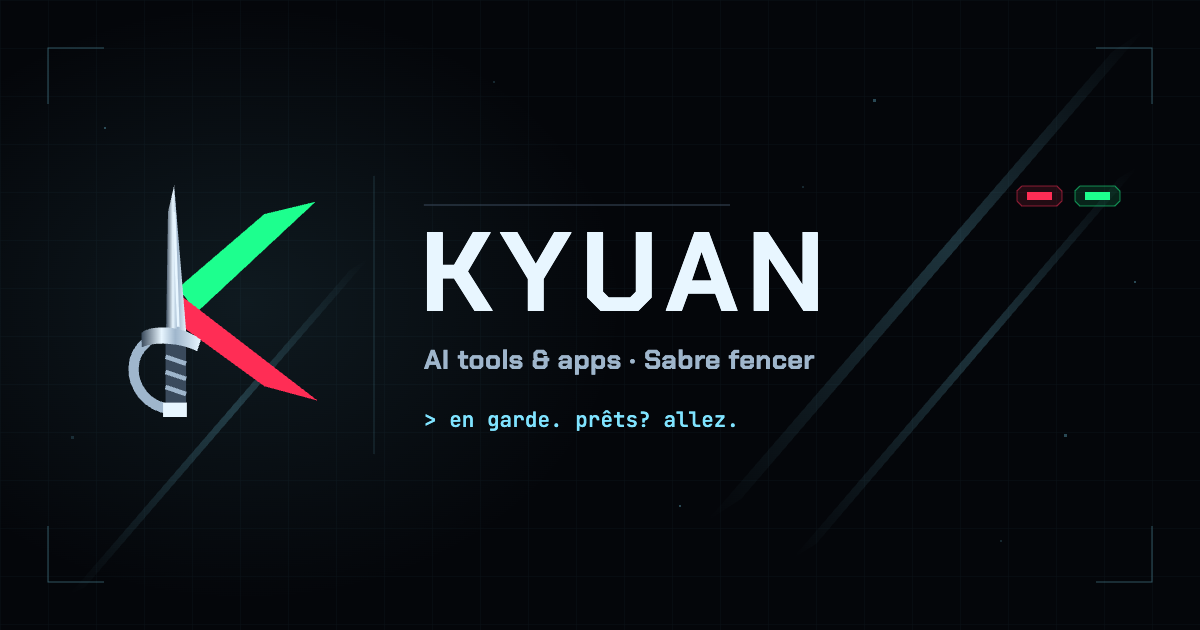
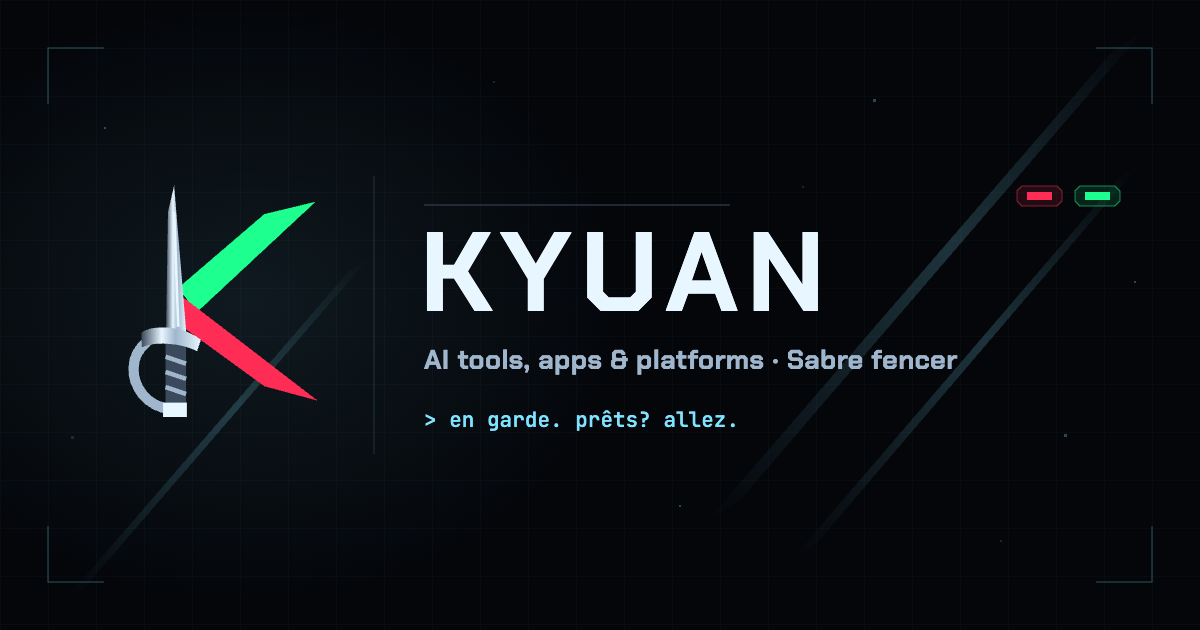
Add FormuAI, remove Draftwise; role: AI tools, apps & platforms

Changed region(s): [[0.4317, 0.5429, 0.8017, 0.6032]]

diff --git a/index.html b/index.html
@@ -3,14 +3,14 @@
 <head>
   <meta charset="utf-8">
   <meta name="viewport" content="width=device-width, initial-scale=1, viewport-fit=cover">
-  <title>KYUAN — AI tools &amp; apps · Sabre</title>
-  <meta name="description" content="KYUAN: builder of AI tools and apps, sabre fencer. StudyArea, ClearSteps, Draftwise, KevCal, AI Coding Field Guide and The Dive.">
+  <title>KYUAN — AI tools, apps &amp; platforms · Sabre</title>
+  <meta name="description" content="KYUAN: builder of AI tools, apps and platforms, sabre fencer. The Dive, StudyArea, AI Coding Field Guide, FormuAI, ClearSteps and KevCal.">
   <meta name="theme-color" content="#04060a">
   <link rel="canonical" href="https://fierylightning.github.io/">
   <meta name="color-scheme" content="dark">
   <meta property="og:type" content="website">
-  <meta property="og:title" content="KYUAN — AI tools & apps · Sabre">
-  <meta property="og:description" content="Builder of AI tools and apps. Sabre fencer. Six builds, four live.">
+  <meta property="og:title" content="KYUAN — AI tools, apps & platforms · Sabre">
+  <meta property="og:description" content="Builder of AI tools, apps and platforms. Sabre fencer. Six builds, four live.">
   <meta property="og:url" content="https://fierylightning.github.io/">
   <meta property="og:image" content="https://fierylightning.github.io/assets/og/og.png">
   <meta property="og:image:width" content="1200">
@@ -91,7 +91,7 @@
             <span class="sn-b" aria-hidden="true">KYUAN</span>
             <svg class="sn-line" viewBox="0 0 100 100" preserveAspectRatio="none" aria-hidden="true"><line x1="-6" y1="65.3" x2="106" y2="40.7" vector-effect="non-scaling-stroke"/></svg>
           </h1>
-          <p class="hero-role" id="hero-role">Builder of AI tools &amp; apps. Sabre fencer.</p>
+          <p class="hero-role" id="hero-role">Builder of AI tools, apps &amp; platforms. Sabre fencer.</p>
           <p class="typer" aria-live="off"><span class="prompt">&gt;</span> <span id="typer"></span><span class="caret" aria-hidden="true"></span></p>
           <div class="hero-cta">
             <a class="btn btn-primary" href="#arsenal"><span>Enter the piste</span><svg class="ico" aria-hidden="true"><use href="assets/icons.svg#i-arrow-down"></use></svg></a>
@@ -137,7 +137,7 @@
       <header class="sec-head" data-reveal>
         <span class="sec-idx">02 <i></i> ARSENAL</span>
         <h2 id="arsenal-title">Six touches landed.</h2>
-        <p>Tools and apps I've built. <b class="g">Green lamp</b>: live, touch to open. <b class="r">Red lamp</b>: private or local build, described here but not publicly hosted.</p>
+        <p>Tools, apps and platforms I've built and work on. <b class="g">Green lamp</b>: live, touch to open. <b class="r">Red lamp</b>: private or local build, described here but not publicly hosted.</p>
       </header>
 
       <div class="filters" role="group" aria-label="Filter builds">
@@ -153,8 +153,8 @@
           <li><a href="https://fierylightning.github.io/the-dive/">The Dive</a> — learning AI, by depth</li>
           <li><a href="https://studyarea.vercel.app">StudyArea</a> — offline-first AI study coach</li>
           <li><a href="https://ai-coding-field-guide.vercel.app">AI Coding Field Guide</a> — your first app with an AI pair</li>
+          <li><a href="https://formuai-v1.vercel.app">FormuAI</a> — AI platform for drug formulation (by invitation; took over development)</li>
           <li>ClearSteps — video to step-by-step guide (private build)</li>
-          <li><a href="https://draftwise-mocha.vercel.app">Draftwise</a> — AI interview preparation</li>
           <li>KevCal — photo to calendar (runs locally) · <a href="https://github.com/FieryLightning/KevCal">source</a></li>
         </ul>
       </noscript>

diff --git a/js/data.js b/js/data.js
@@ -15,7 +15,7 @@ export const profile = {
   email: '', // optional: add an address to show a "mail" button in the Salute section
   education: 'CS graduate, University of Wisconsin–Madison',
   educationShort: 'CS graduate, UW–Madison',
-  role: 'Builder of AI tools & apps',
+  role: 'Builder of AI tools, apps & platforms',
   weapon: 'Sabre',
   taglines: [
     'fast hands. clean cuts. shipped code.',
@@ -25,7 +25,7 @@ export const profile = {
   ],
   bio: [
     'I fence sabre. It is the fastest weapon in fencing: the whole target above the waist is open, the edge counts as much as the point, and the fencer who commits first holds right of way. A touch is decided in a fraction of a second.',
-    'I build software the same way. Pick the line, commit, cut clean, ship. Lately that means AI tools that respect the person using them: study coaches that work offline, interview practice that stays in your browser, video-to-guide pipelines that can run entirely on a Mac, and a calendar reader that refuses to guess a date.',
+    'I build software the same way. Pick the line, commit, cut clean, ship. Lately that means AI tools that respect the person using them: study coaches that work offline, video-to-guide pipelines that can run entirely on a Mac, a calendar reader that refuses to guess a date, and FormuAI, a drug-formulation platform I took over and now develop.',
   ],
 };
 
@@ -33,7 +33,7 @@ export const loadout = [
   { slot: 'Languages', icon: 'i-code', items: ['TypeScript', 'JavaScript', 'Python', 'Swift', 'SQL'] },
   { slot: 'Front end', icon: 'i-target', items: ['React 19', 'Next.js', 'Vite', 'PWA / Service Workers', 'IndexedDB (Dexie)'] },
   { slot: 'AI', icon: 'i-cpu', items: ['Claude API', 'OpenAI', 'Gemini', 'Whisper.cpp', 'Ollama · Qwen', 'Reinforcement learning'] },
-  { slot: 'Platform', icon: 'i-bolt', items: ['Node.js', 'Vercel', 'Cloudflare', 'GitHub Pages', 'Drizzle ORM', 'Apple Vision'] },
+  { slot: 'Platform', icon: 'i-bolt', items: ['Node.js', 'FastAPI', 'Supabase · Postgres', 'Vercel', 'Cloudflare', 'GitHub Pages', 'Drizzle ORM', 'Apple Vision'] },
 ];
 
 export const projects = [
@@ -72,6 +72,19 @@ export const projects = [
     url: 'https://ai-coding-field-guide.vercel.app',
   },
   {
+    id: 'formuai',
+    name: 'FormuAI',
+    tagline: 'AI platform for drug formulation',
+    description:
+      'Production tooling for PLGA microsphere formulation research. Predict the drug-release curve from formulation parameters, or work backwards from a target profile. AI reads figures in published papers, scientists confirm the data, and confirmed rows train the model.',
+    stack: ['Next.js 14', 'TypeScript', 'FastAPI · Python', 'ML release model', 'Supabase · Postgres', 'Gemini'],
+    logo: 'assets/logos/formuai.png',
+    accent: '#5cc796',
+    url: 'https://formuai-v1.vercel.app',
+    access: 'By invitation',
+    role: 'Took over development · Peregrine Technology',
+  },
+  {
     id: 'clearsteps',
     name: 'ClearSteps',
     tagline: 'Video → step-by-step guide',
@@ -81,17 +94,6 @@ export const projects = [
     logo: 'assets/logos/clearsteps.svg',
     accent: '#3254dd',
     privateNote: 'Private build',
-  },
-  {
-    id: 'draftwise',
-    name: 'Draftwise',
-    tagline: 'AI interview preparation',
-    description:
-      'Map your background against the job, practise answers out loud, build your own question bank, then run a live voice mock interview with feedback. Everything you write stays in your browser.',
-    stack: ['Vanilla JS', 'OpenAI voice', 'Strict CSP', 'Local-first', 'PDF export'],
-    logo: 'assets/logos/draftwise.svg',
-    accent: '#2b45de',
-    url: 'https://draftwise-mocha.vercel.app',
   },
   {
     id: 'kevcal',

diff --git a/css/style.css b/css/style.css
@@ -265,7 +265,7 @@ main { position: relative; z-index: 2; overflow-x: clip; }
 @keyframes cutB { 0% { transform: none; } 16% { transform: translate(2%, 6%) rotate(1deg); } 100% { transform: none; } }
 @keyframes seam { 0% { opacity: 0; } 8% { opacity: 1; } 100% { opacity: 0; } }
 
-.hero-role { font: 500 clamp(17px, 1.8vw, 21px)/1.5 var(--body); color: var(--steel-2); max-width: 36ch; }
+.hero-role { font: 500 clamp(17px, 1.8vw, 21px)/1.5 var(--body); color: var(--steel-2); max-width: 46ch; }
 .typer { margin-top: 18px; font: 500 clamp(13px, 1.3vw, 15px) var(--mono); color: var(--blade); min-height: 1.6em; }
 .typer .prompt { color: var(--green); }
 .caret { display: inline-block; width: .6em; height: 1.1em; margin-left: 2px; vertical-align: -0.2em; background: var(--green); animation: blink 1s steps(1) infinite; box-shadow: 0 0 8px var(--green); }
@@ -484,6 +484,9 @@ b.r { color: var(--red); font-weight: 600; }
 .card:hover .emblem img { transform: scale(1.06) rotate(-3deg); }
 .card-name { font: 600 23px/1.15 var(--display); color: var(--steel); letter-spacing: .01em; }
 .card-tag { margin-top: 4px; font: 500 12px var(--mono); color: var(--blade); }
+.card-role { display: flex; align-items: baseline; gap: 10px; margin-top: -4px; font: 500 11.5px/1.5 var(--mono); color: var(--steel-2); }
+.card-role span { flex: none; padding: 2px 6px; font-size: 9.5px; letter-spacing: .2em; color: var(--amber); border: 1px solid rgba(255, 197, 61, .35); }
+.card-access { font: 600 10px var(--mono); letter-spacing: .18em; text-transform: uppercase; color: var(--amber); padding: 4px 8px; border: 1px dashed rgba(255, 197, 61, .45); }
 .card-desc { flex: 1; font-size: 14.5px; line-height: 1.62; color: var(--text); }
 .chips { display: flex; flex-wrap: wrap; gap: 6px; padding: 0; margin: 0; list-style: none; }
 .chips li {

diff --git a/js/main.js b/js/main.js
@@ -131,7 +131,7 @@ function cardHTML(p, i) {
     ? `<a class="card-enter" href="${esc(p.url)}" target="_blank" rel="noopener" aria-label="Open ${esc(p.name)} (opens in a new tab)">
          <span>Enter</span>${icon('i-external')}
        </a>
-       <span class="card-host">${esc(host(p.url))}</span>`
+       ${p.access ? `<span class="card-access">${esc(p.access)}</span>` : `<span class="card-host">${esc(host(p.url))}</span>`}`
     : `<span class="card-locked">${icon('i-lock')}<span>${esc(p.privateNote || 'Private build')} · no public link</span></span>`;
   const src = p.source ? `<a class="card-src" href="${esc(p.source)}" target="_blank" rel="noopener">${icon('i-github')}<span>Source</span></a>` : '';
   return `
@@ -149,6 +149,7 @@ function cardHTML(p, i) {
         <p class="card-tag">${esc(p.tagline)}</p>
       </div>
     </div>
+    ${p.role ? `<p class="card-role"><span>ROLE</span>${esc(p.role)}</p>` : ''}
     <p class="card-desc">${esc(p.description)}</p>
     <ul class="chips" aria-label="Built with">${p.stack.map((s) => `<li>${esc(s)}</li>`).join('')}</ul>
     <footer class="card-foot">${foot}${src}</footer>

diff --git a/js/terminal.js b/js/terminal.js
@@ -104,9 +104,10 @@ export function createTerminal({ root, profile, projects, loadout, actions }) {
         const p = find(q);
         if (!p) return print(`<span class="t-r">info: no build matches “${esc(q ?? '')}”.</span>`);
         print(`${lamp(p)} <span class="t-a">${esc(p.name)}</span> — ${esc(p.tagline)}`);
+        if (p.role) print(`<span class="t-c">role </span> ${esc(p.role)}`);
         print(`<span class="t-m">${esc(p.description)}</span>`);
         print(`<span class="t-c">stack</span> ${p.stack.map(esc).join(' · ')}`);
-        if (p.url) print(`<span class="t-c">link </span> <a href="${esc(p.url)}" target="_blank" rel="noopener">${esc(p.url)}</a>`);
+        if (p.url) print(`<span class="t-c">link </span> <a href="${esc(p.url)}" target="_blank" rel="noopener">${esc(p.url)}</a>${p.access ? ` <span class="t-y">(${esc(p.access.toLowerCase())})</span>` : ''}`);
         else print(`<span class="t-c">link </span> <span class="t-r">${esc(p.privateNote || 'private build')}</span>`);
       },
     },
